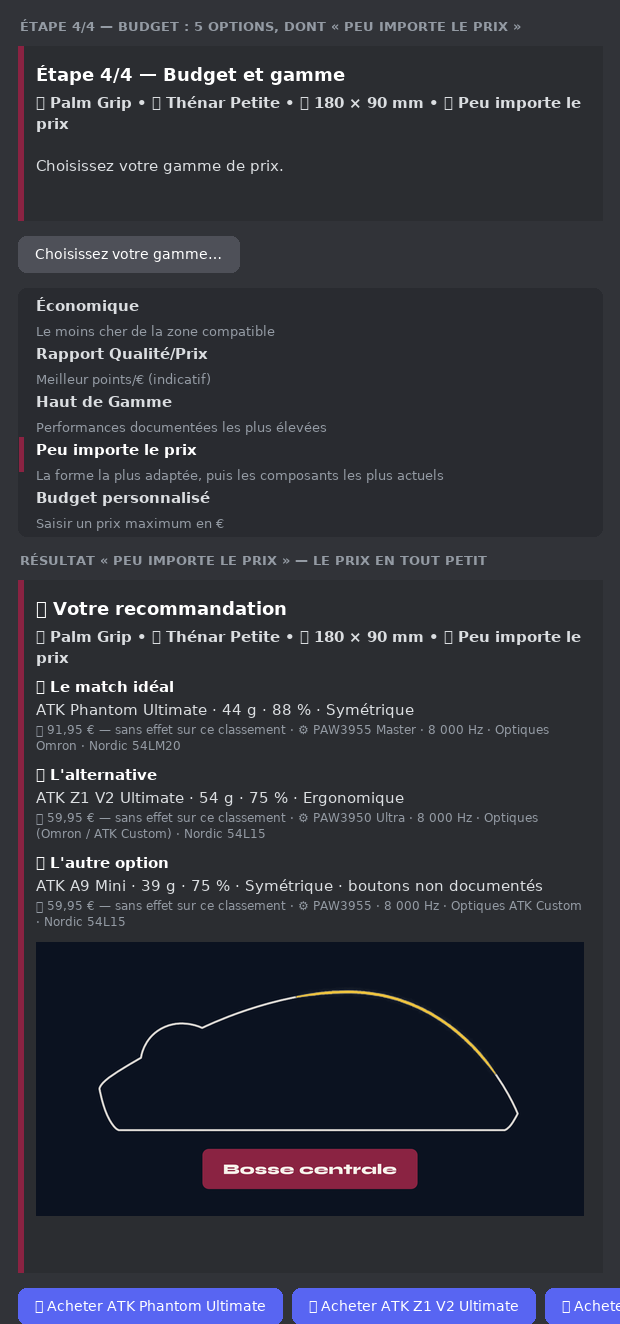
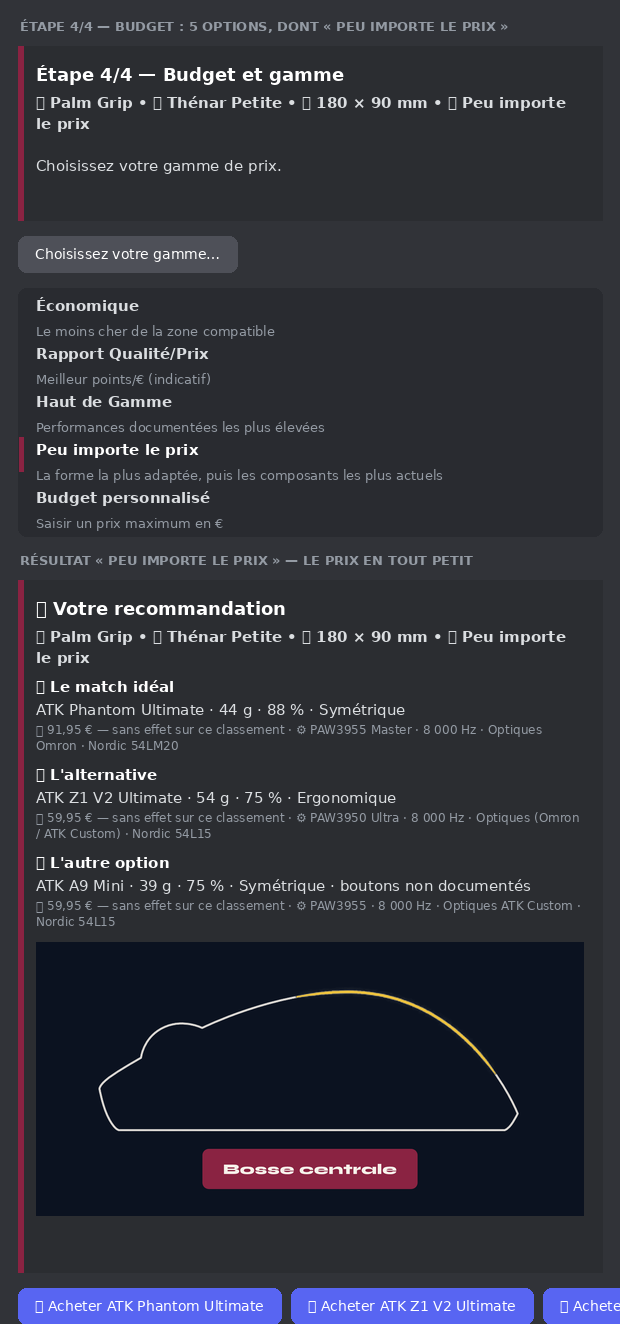
79e passe (C100) : relevé de terrain du 2026-10-15 — prix, sources et prises corrigés
Premier passage complet de tools/check_links.py (depuis le poste du propriétaire)
et lecture de 5 sources tirées au hasard (seed 20261015) :
- X1 V2 Ultra Max, F1 V2, VXE MAD R : 40,95 -> 41,95 € (relevé daté du 2026-10-15)
- U2 V2 Mini : source de prix retirée (elle désignait le produit « U2 Mini »), 268 sources
- U2 V2 Ultimate, U2 V2 Mini, Fierce X : la fiche ATK n'atteste plus que la prise Claw ;
  nouveau verrou dans test_third_party_grip_guide_fills_only_what_the_brand_silences
- Scyrox V8S : libellé « 40 ±3 g » remplacé par ce que la page affiche (« 40 g »)
- Brief de reprise : 4 affirmations fausses corrigées (finder_flow 1 581 l., repli
  « même coque », titres de la 3e place, maximum Fingertip = 40)

Effet : 0 profil sur 21 736 dont le résultat change ; banc 0 problème ; 826 tests.
Fichiers à envoyer : data/mouse_db.json (redémarrage nécessaire).

Claude-Session: https://claude.ai/code/session_01W89iQct2gJnfSdnVdsAKme

diff --git a/tests/test_data.py b/tests/test_data.py
@@ -611,6 +611,14 @@ def test_third_party_grip_guide_fills_only_what_the_brand_silences(mice):
         for champ in ("palm_grip_fit", "claw_grip_fit", "fingertip_grip_fit"):
             if getattr(mouse, champ) != "Inconnu":
                 assert any(champ in s.fields for s in mouse.sources), (mouse.id, champ)
+            # 2026-10-15 (79e passe) : la fiche ATK des U2 V2 Ultimate, U2 V2 Mini et Fierce X déclarait
+            # les trois prises alors qu'elle n'en publie qu'une (« Grip Style: Claw ») — le palm ou le
+            # fingertip venaient de mouseshape seul. Une prise complétée par la source tierce n'est
+            # attestée QUE par elle : le fabricant ne peut pas être cité pour ce qu'il ne publie pas.
+            if any(champ in s.fields for s in tierce):
+                constructeur = [s.url for s in mouse.sources
+                                if champ in s.fields and "mouseshape.com" not in s.url]
+                assert not constructeur, (mouse.id, champ, constructeur)
 
     # Cas concrets : « Recommended » accepté, « Not ideal » laissé « Inconnu ».
     xlite = mice["pulsar_xlite_v4_medium"]

diff --git a/docs/PROMPT_REPRISE_TOTALE.md b/docs/PROMPT_REPRISE_TOTALE.md
@@ -77,7 +77,7 @@ Puis **un seul message** : le résultat. Trois lignes au maximum —
 | --- | --- | --- |
 | 🎯 **Match Idéal** | nom, % du maximum théorique, prix, poids, forme, phrase « en clair » | le meilleur score de la fenêtre de budget |
 | 💡 **Alternative** | idem | un peu moins bien, souvent moins chère |
-| ➕ **🔎 Autre piste** | la 3ᵉ place, remplie **même vide de sens** | peut être un peu plus chère (décision du propriétaire) |
+| 💸 / ➕ / 🔎 **3ᵉ place** | la 3ᵉ place, remplie **même vide de sens** ; titre selon son rôle réel : « 💸 L'économie » (strictement moins chère), « ➕ L'autre option » (dans la fenêtre, pas moins chère), « 🔎 Autre piste » (dernier palier) | peut être un peu plus chère (décision du propriétaire) ; la 2ᵉ place peut aussi devenir « 🔎 Autre piste » (`cogs/finder_flow.py`, `third_slot_title` / `alternative_slot_title`) |
 
 Plus, en dessous : un bloc **« 📐 Vos repères de taille »** (les plages cibles calculées pour **cette** main), et tout en bas, en petit, **« 🧭 Pourquoi ce choix ? »** (le calcul expliqué). **Aucun score de confiance en tête, aucun tableau des souris écartées, aucune matrice** : ce que l'utilisateur voit tient sur un écran.
 
@@ -94,7 +94,7 @@ bot.py                    108 l.   point d'entrée : intents, chargement des cog
 config.py                 101 l.   chemins (.env, catalogue, images), chargement de la configuration
 cogs/
   mouse_finder.py                  cog principal (démarrage du parcours, vues persistantes)
-  finder_flow.py          1 719 l. TOUT le parcours : embeds, boutons, modales, affichage du résultat
+  finder_flow.py          1 581 l. TOUT le parcours : embeds, boutons, modales, affichage du résultat
   __init__.py
 utils/
   matcher.py                       le MOTEUR : barème 40 points, exclusions, statuts
@@ -105,7 +105,7 @@ utils/
   validation.py                    bornes des saisies (100–260 mm, 50–130 mm, 10–5 000 €)
   assets.py                        résolution des images (nom de fichier → URL publique)
 data/
-  mouse_db.json            36 souris · 269 sources   LE CATALOGUE
+  mouse_db.json            36 souris · 268 sources   LE CATALOGUE
   commercial_links.json    36 liens affiliés (+ 3 clés `_` de commentaire)
 assets/
   images.json              17 clés → fichiers `assets/illustrations/T01…T15`
@@ -214,7 +214,7 @@ Les constantes du moteur (`LENGTH_SLOPE = 0.2633`, largeur de prise `= coque −
 `RAPPORT_FINAL.md`, `STATISTIQUES_RECOMMANDATIONS_2026-10-12.md`, `matrice_profils.md` sont des **photos datées**. Elles sont déjà partiellement fausses. Soit on les régénère à la demande (un outil le fait pour la matrice), soit on les archive avec une date en tête. Ne les traite jamais comme la vérité courante.
 
 ### 7.7 Ce qui est propre et qu'il ne faut pas casser
-La **chaîne de preuves** (bytecode, aperçus horodatés par empreinte, banc d'essai, mutations), la **discipline anti-invention**, le **catalogue sourcé** (269 sources pour 36 souris, chaque valeur traçable), et l'**outillage de mesure sur images** (étalonnage, contrôle de perspective, identité de silhouette). Si tu jettes le reste, garde ces quatre-là.
+La **chaîne de preuves** (bytecode, aperçus horodatés par empreinte, banc d'essai, mutations), la **discipline anti-invention**, le **catalogue sourcé** (268 sources pour 36 souris depuis la 79e passe, chaque valeur traçable), et l'**outillage de mesure sur images** (étalonnage, contrôle de perspective, identité de silhouette). Si tu jettes le reste, garde ces quatre-là.
 
 ---
 
@@ -238,7 +238,7 @@ La **chaîne de preuves** (bytecode, aperçus horodatés par empreinte, banc d'e
 ## 9. Tes droits, explicitement
 
 ### 9.1 Sur le code
-Tu peux modifier, déplacer, découper, fusionner ou **supprimer** n'importe quel module — y compris `cogs/finder_flow.py` (1 719 lignes, « tout le parcours dans un fichier » : c'est un candidat évident à l'éclatement). Tu peux changer les dépendances (`discord.py ≥ 2.4`, Python ≥ 3.10), la structure des cogs, le découpage `utils/`, et **le moteur de calcul lui-même**.
+Tu peux modifier, déplacer, découper, fusionner ou **supprimer** n'importe quel module — y compris `cogs/finder_flow.py` (1 581 lignes, « tout le parcours dans un fichier » : c'est un candidat évident à l'éclatement). Tu peux changer les dépendances (`discord.py ≥ 2.4`, Python ≥ 3.10), la structure des cogs, le découpage `utils/`, et **le moteur de calcul lui-même**.
 
 ### 9.2 Sur les données
 Tu peux changer le schéma du catalogue, à condition de fournir la **migration** et de mettre à jour les outils, les tests et les documents qui en dépendent. Le schéma actuel fait **26 champs obligatoires ou optionnels** (Annexe A) ; il est verbeux et mérite d'être repensé — mais il a une qualité : **chaque valeur renseignée est adossée à une source qui déclare le champ**. Garde cette propriété.
@@ -309,7 +309,7 @@ Le propriétaire est francophone, exige un **français irréprochable** (typogra
 ### 11.3 Ajouter une souris au catalogue (le geste que tu dois rendre trivial)
 1. **Vérifier qu'elle est vendue** et trouver le lien officiel, affilié (`?ref=aze` ATK, `?ref=AZE` Pulsar, `?bg_ref=…` Scyrox).
 2. **Relever les cotes** (longueur, largeur maximale, hauteur) sur deux sources ou sur le fabricant ; si elles divergent de plus de 0,5 mm → `conflicts` + statut d'incertitude.
-3. **Renseigner `shell_id`** si la coque est partagée : deux entrées de la même coque ne doivent **jamais** occuper deux places du même résultat.
+3. **Renseigner `shell_id`** si la coque est partagée : deux entrées de la même coque n'occupent pas deux places du même résultat — **sauf** repli volontaire quand aucun autre candidat ne reste (« jamais moins de résultats qu'avant ») : le banc le compte (1 748 profils sur 21 736 au 2026-10-15) sans le compter comme une faute.
 4. **Prises** : seulement ce que le fabricant (ou la source tierce autorisée) **publie**. « Inconnu » est une valeur acceptable ; une valeur inventée jamais. Une prise « Faible » **exclut** la souris de ce profil.
 5. **Bosse** (position) et **hauteur de boutons** (classe) : mesurées sur images, ou déduites d'une coque partagée **avec sa source**.
 6. **Prix en euros**, relevé daté, variante **figée** dans le lien si le produit en vend plusieurs.
@@ -412,7 +412,7 @@ Et une consigne de méthode : **quand tu as le choix entre « faire ce que le do
 | **Compatibilité de prise** | 10 | `Élevé` +10, `Moyen` +5, `Faible` ⇒ **exclusion**, `Inconnu` ⇒ à vérifier (aucun point) |
 | **Bosse** | 5 | position idéale selon la prise |
 | **Hauteur des boutons** | 5 (palm/claw) · 10 (fingertip) | classe idéale selon la prise |
-| **Maximum théorique** | **40** | le pourcentage affiché est **score / 40** (⚠ au Fingertip, le maximum réel change : à vérifier — c'est le genre d'incohérence que tu dois traquer) |
+| **Maximum théorique** | **40** | le pourcentage affiché est **score / 40** — vérifié le 2026-10-15 : au Fingertip aussi, 10 + 10 + 10 + 0 (bosse ignorée) + **10** (boutons) = 40 |
 
 Plages cibles (mesurées par reverse engineering, `Reverse/`) :
 - Longueur min = `71,4 + 0,2633 × L` ; longueur max = min + 5 mm (Palm/Claw) ; Fingertip : max = base + 0,2633 × L.
@@ -466,7 +466,7 @@ find . -name __pycache__ -type d -not -path "./.venv/*" -exec rm -rf {} +
 - **Thénar** : informatif, **aucun point**, ne modifie pas le score (règle du 2026-10-13).
 - **Résultat** : la ligne descriptive + **Match Idéal** + **Alternative**, avec le **% du maximum théorique** (jamais présenté comme une probabilité ni une confiance). **Pas de score ni de confiance en tête**.
 - **« Le pourquoi »** : en petit encadré, **en bas**.
-- **3ᵉ place** : remplie **même incomplète**, titre « 🔎 Autre piste », % affiché ; une souris un peu plus chère est acceptée ; le **marqueur discret** signale un score partiel.
+- **3ᵉ place** : remplie **même incomplète**, titre selon son rôle (« 💸 L'économie », « ➕ L'autre option » ou « 🔎 Autre piste »), % affiché ; une souris un peu plus chère est acceptée ; le **marqueur discret** signale un score partiel.
 - **Ne pas afficher** : les souris écartées, la matrice, les données de debug.
 - **Images** : les 15 illustrations `T01`–`T15` (bannière, étapes, illustrations du résultat), hébergées par le propriétaire, lisibles en thème **sombre et clair**.
 - **Poids** affiché près des deux premières places.
@@ -489,7 +489,7 @@ find . -name __pycache__ -type d -not -path "./.venv/*" -exec rm -rf {} +
 | **T01–T15** | les 15 illustrations du bot (`ImageUse/`), mappées dans `assets/images.json` |
 | **banc / grille** | `tools/qa_flow_matrix.py` : passe tous les profils dans le moteur et vérifie les invariants |
 | **mutation** | casser volontairement le code pour vérifier qu'un test échoue bien |
-| **`shell_id`** | identifiant de **coque** : deux souris de même coque ne doivent jamais occuper deux places |
+| **`shell_id`** | identifiant de **coque** : deux souris de même coque n'occupent pas deux places, sauf repli quand aucun autre candidat ne reste |
 | **marqueur partiel** | « boutons non documentés » : signale un score incomplet sur une souris |
 | **empreinte des sources** | SHA-256 inscrit dans les PNG d'aperçu pour détecter un aperçu périmé |
 

diff --git a/docs/VERIFICATION_LIENS_SPONSORISES_2026-10-11.md b/docs/VERIFICATION_LIENS_SPONSORISES_2026-10-11.md
@@ -316,6 +316,22 @@ la page ouverte, avec sa date) reste la bonne, mais elle exige de **relire** —
 l'environnement de travail (les boutiques y sont bloquées), il se fait à la main, fiche par fiche, et le
 résultat est **écrit ici avec sa date**. Aucune valeur n'est devinée, aucune conversion n'est faite.
 
+### 7.8 Relecture du 2026-10-15 (79e passe) : trois prix rebasculés, cette fois par l'outil
+
+`tools/check_links.py` a enfin tourné **en entier**, depuis le poste du propriétaire (Windows 11,
+Python 3.12.9, commit `070024f`, le 2026-10-15 entre 18:05 et 18:06, heure de Paris) : **36 fiches
+ouvertes, aucune inaccessible, 3 écarts**, tous d'un euro et tous **à la hausse** — l'inverse du §7.7.
+
+| Souris | 2026-10-14 | **2026-10-15 (publié)** |
+| --- | --- | --- |
+| ATK X1 V2 « Ultra Max 2.0 / Black » (bouton) | 40,95 € | **41,95 €** (prix barré 63,95 €) |
+| ATK F1 V2 « Ultra Max 2.0 / Black » (bouton) | 40,95 € | **41,95 €** (prix barré 63,95 €) |
+| VXE MAD R (« à partir de » : « MAD R / Black » et « MAD R / White », 1K Dongle Only) | 40,95 € | **41,95 €** |
+
+Les **31 autres fiches en euros** sont conformes au catalogue ; les deux Scyrox restent « hors
+comparaison » (69,99 USD, aucune conversion). La Duckbill, qui oscillait avec ces trois-là, est restée à
+81,95 €.
+
 ## 8. Inventaire du 2026-10-13 (après-midi) : les 36 liens relus, un par un
 
 La 37e passe avait relu les 36 liens **le matin** du 2026-10-13. Le propriétaire a demandé une
@@ -344,14 +360,14 @@ publié). Modifier un lien ou un prix sans mettre à jour ce tableau fait **éch
 | `atk_a9_mini` | `atk-dragonfly-a9-ultimate-lightweight-wireless-mouse` | `47852235718874` | Mini / Black | 59,95 € | 59,95 € | ✅ |
 | `atk_a9_plus` | `atk-dragonfly-a9-series-lightweight-wireless-mouse` | `46320046047450` | A9 Plus / White | 27,95 € | 27,95 € | 🔧 prix corrigé (45,00 € → 27,95 €) |
 | `atk_a9_nb` | `atk-dragonfly-a9-nb-lightweight-wireless-mouse` | — | Ultra (4 coloris) | 72,95 € | 72,95 € | 🔧 prix corrigé (73,95 € → 72,95 €) |
-| `atk_x1_ultra_max` | `atk-blazing-sky-x1-v2-series-esports-wireless-mouse` | `47058382782682` | Ultra Max 2.0 / Black | 40,95 € | 40,95 € | ✅ (relecture du 2026-10-14 : la boutique a rebasculé d'un euro, §7.7) |
+| `atk_x1_ultra_max` | `atk-blazing-sky-x1-v2-series-esports-wireless-mouse` | `47058382782682` | Ultra Max 2.0 / Black | 41,95 € | 41,95 € | ✅ (relecture du 2026-10-15 : la boutique a rebasculé d'un euro, §7.7) |
 | `atk_z1_ultra` | `atk-blazing-sky-z1-v2-gaming-wireless-mouse` | — | Ultimate (le moins cher ; l'édition Ultimate+ est à 65,95 €) | 59,95 € | 59,95 € | ✅ |
 | `atk_phantom_ultimate` | `atk-blazing-sky-phantom-hollow-carbon-fiber-composite-wireless-gaming-mouse` | — | Ultimate (modèle unique de la page, 4 coloris) | 91,95 € | 91,95 € | ✅ |
 | `atk_ghost_ultimate` | `atk-blazing-sky-ghost-hollow-carbon-fiber-wireless-gaming-mouse` | `47320425595098` | Ultimate / Silver | 68,95 € | 68,95 € | ✅ |
 | `atk_ghost_extreme` | `atk-blazing-sky-ghost-hollow-carbon-fiber-wireless-gaming-mouse` | `47320425627866` | Extreme / Black | 86,95 € | 86,95 € | ✅ |
 | `atk_y9_ultimate` | `atk-dragonfly-y9-series-lightweight-ergonomic-wireless-mouse` | `47178929897690` | Ultimate / Pink | 59,95 € | 59,95 € | ✅ |
 | `atk_f1_ultimate` | `atk-blazing-sky-f1-v3-series-esports-wireless-mouse` | `48175399370970` | Ultimate+ / Black | 59,95 € | 59,95 € | ✅ |
-| `atk_f1_v2` | `atk-blazing-sky-f1-v2-series-esports-wireless-mouse` | `47006581096666` | Ultra Max 2.0 / Black | 40,95 € | 40,95 € | 🔧 variante figée (le lien ouvrait la page des trois éditions) · relecture du 2026-10-14 |
+| `atk_f1_v2` | `atk-blazing-sky-f1-v2-series-esports-wireless-mouse` | `47006581096666` | Ultra Max 2.0 / Black | 41,95 € | 41,95 € | 🔧 variante figée (le lien ouvrait la page des trois éditions) · relecture du 2026-10-15 |
 | `atk_u2_v2_ultimate` | `atk-blazing-sky-u2-v2-superlight-wireless-gaming-mouse` | `47201864974554` | U2 V2 Ultimate / Lake Green | 59,95 € | 59,95 € | ✅ |
 | `atk_u2_v2_mini` | `atk-blazing-sky-u2-v2-superlight-wireless-gaming-mouse` | `47204034150618` | U2 V2 Mini / White | 59,95 € | 59,95 € | ✅ |
 | `atk_u2` | `atk-blazing-sky-u2-series-wireless-mouse` | — | U2 (le moins cher de la série) | 22,95 € | 22,95 € | ✅ |
@@ -361,7 +377,7 @@ publié). Modifier un lien ou un prix sans mettre à jour ce tableau fait **éch
 | `atk_fierce_x` | `atk-fierce-x-lightweight-wireless-gaming-mouse` | — | FIERCE X (3 coloris) | 69,95 € | 69,95 € | ✅ (produit épuisé) |
 | `vxe_v3` | `vxe-dragonfly-v3-series-lightweight-wireless-mouse` | — | Dragonfly V3 (le moins cher) | 13,95 € | 13,95 € | ✅ |
 | `vxe_r1` | `vxe-dragonfly-r1-series-wireless-mouse` | — | Dragonfly R1 (le moins cher) | 13,95 € | 13,95 € | ✅ |
-| `vxe_mad_r` | `vxe-mad-r-series-wireless-mouse` | — | MAD R (le moins cher) | 40,95 € | 40,95 € | ✅ (produit épuisé ; relecture du 2026-10-14) |
+| `vxe_mad_r` | `vxe-mad-r-series-wireless-mouse` | — | MAD R (le moins cher) | 41,95 € | 41,95 € | ✅ (relecture du 2026-10-15) |
 | `vxe_x3` | `vxe-dragonfly-x3-series-lightweight-wireless-mouse` | — | Dragonfly X3 (le moins cher) | 27,95 € | 27,95 € | ✅ |
 | `pulsar_x2_v3_mini` | `x2-v3-mini-gaming-mouse` | — | X2 v3 Mini (taille `Size/Mini`) | 119,99 € | 119,99 € | ✅ |
 | `pulsar_x2h_v3_mini` | `x2h-v3-mini-gaming-mouse` | — | X2H v3 Mini (taille `Size/Mini`) | 119,99 € | 119,99 € | ✅ |

diff --git a/docs/audit/AUDIT.md b/docs/audit/AUDIT.md
@@ -133,6 +133,7 @@ document de validation, ou défaut d'outillage — c'est le cas de C37, C38, des
 | C97 | Documentation — le texte de justification du catalogue décrit comme « affiché dans le résultat » | Même famille que C96, trouvée le même jour en étendant le balayage à tout le tableau des champs : `fit_rationale` est renseigné pour les 36 souris mais n'apparaît dans **aucun** message — le bloc « 🧭 Pourquoi ce choix ? » vient de `selection.explanation`, calculé par le moteur. Corrigé dans le README, et le contrôle de C96 est devenu **paramétré** : il vérifie, pour `budget_tier` et `fit_rationale`, qu'aucun module du bot ne les lit et que le README porte la phrase vraie sans la phrase périmée — mutation rejouée (affichage du champ ajouté au moteur), 1 rouge. Le même balayage a confirmé `sources`, le départage capteur/MCU/switchs, l'affichage de `shape` et l'état de `grip_width_mm`. Détail : §26.62 du ROBUSTESSE. |
 | C98 | Données — neuf notes du catalogue portaient une phrase collée à la suivante | Neuf souris Pulsar avaient « … jusqu'au relevé.Capteur maison Pulsar XS-1 … » : la phrase sur le capteur avait été concaténée au texte existant sans séparateur. Le sens restait juste, mais le texte publié (la traçabilité que le propriétaire lit) portait une faute visible, et rien ne le surveillait. Corrigé : les neuf occurrences portent l'espace manquante (**ponctuation seule**, aucun mot ni chiffre touché), et un contrôle neuf (`tests/test_data.py`) balaie tous les textes libres du catalogue — notes, notes de prix, justifications, 269 libellés de sources — en refusant une phrase collée à la suivante. Mutation rejouée : 1 rouge. Détail : §26.63 du ROBUSTESSE. |
 | C99 | Catalogue — le point ouvert de la Xlite CrazyLight Mini est tranché, et son dossier est prêt | Le catalogue Pulsar gardait hors du bot une souris **vendue** parce que la boutique la classe `Shape/Symmetrical` quand la famille Xlite est ergonomique main droite. Mesure du 2026-10-14 sur trois pages officielles : la CrazyLight **Mini** est taggée `Symmetrical` mais sa page écrit « **ERGONOMIC RIGHT HAND** » et « Ergonomic right-handed shape », tandis que la CrazyLight **Medium** (texte produit identique) et la **Xlite v4 Mini** sont taggées `Ergonomic` → l'étiquette isolée est celle de la boutique, la forme est tranchée. La page publie aussi tout le dossier d'entrée : 115,6 × 63,4 × **40,7 mm** (« Same Size as the Xlite Size 1 »), ±41/±43 g, XS-1, optiques 100 M, LTC TTC Golden, et « **1000Hz/1ms** » + « Up to 8K » pour le polling (d'où 1 000 Hz, règle de la famille). Seul le **MCU** reste ouvert (« 32bit ARM Processor », pas un nom). L'entrée au catalogue est une passe à part (tous les compteurs publiés bougent). §6 du `PULSAR_CATALOGUE_2026-10-12.md` mis à jour ; détail : §26.64 du ROBUSTESSE. |
+| C100 | Données — relevé de terrain du 2026-10-15 : trois prix rebasculés, une source qui désignait un autre produit, trois fiches constructeur citées pour des prises qu'elles ne publient pas | Premier passage **complet** de `tools/check_links.py` (36 fiches ouvertes depuis le poste du propriétaire, l'environnement de travail étant bloqué) et lecture de 5 sources tirées au hasard (`random.seed(20261015)`, tirage rejoué à l'identique). Trouvé : (1) X1 V2 Ultra Max, F1 V2 et VXE MAD R à **41,95 €** (catalogue 40,95 €, oscillation d'un euro déjà décrite) → prix, notes et sources datés du 2026-10-15 ; (2) la U2 V2 Mini citait pour son prix une source du 2026-10-11 qui désigne le produit « U2 Mini » (77,95 €), pas la V2 → source retirée (**268** sources), le prix reste attesté par les relevés de la variante figée ; (3) la fiche ATK des U2 V2 Ultimate, U2 V2 Mini et Fierce X déclarait les trois prises alors qu'elle n'affiche que « Grip Style: Claw » — le palm ou le fingertip venaient de mouseshape seul → la fiche n'atteste plus que `claw_grip_fit`, et `test_third_party_grip_guide_fills_only_what_the_brand_silences` refuse désormais qu'une prise complétée par la source tierce soit aussi attribuée au fabricant (mutation : ancien catalogue → 1 rouge) ; (4) le libellé Maxesport de la Scyrox V8S annonçait « 40 ±3 g », la page affiche « 40 g » → libellé recopié mot pour mot. Effet mesuré (`tools/db_effect.py`) : **0 profil** sur 21 736 dont le résultat change ; banc inchangé (0 problème). Détail : §7.8 de `docs/VERIFICATION_LIENS_SPONSORISES_2026-10-11.md`. |
 
 ## 3. Audit du muscle thénar
 

diff --git a/docs/audit/CATALOGUE_ATK.md b/docs/audit/CATALOGUE_ATK.md
@@ -4,6 +4,8 @@ Date de vérification : **2026-10-10**, corrigé le **2026-10-12** puis le **202
 
 **Relecture du 2026-10-14 (60e passe)** : la boutique a rebasculé sa promotion et quatre références sont repassées d'un euro **sous** leur prix de la veille — X1 V2 Ultra Max « Ultra Max 2.0 / Black » **40,95 €**, F1 V2 « Ultra Max 2.0 / Black » **40,95 €**, VXE MAD R **40,95 €** (« à partir de », produit épuisé) et Duckbill **81,95 €**. Les deux lignes de prix de ce tableau sont alignées sur ces relevés datés, et le détail fiche par fiche — dont l'édition « Ultra Max 2.0 » que la page A9 vend aussi — est au §7.7 de `docs/VERIFICATION_LIENS_SPONSORISES_2026-10-11.md`.
 
+**Relecture du 2026-10-15 (79e passe)** : `tools/check_links.py`, lancé depuis le poste du propriétaire, voit trois références remontées d'un euro — X1 V2 Ultra Max et F1 V2 « Ultra Max 2.0 / Black » **41,95 €**, VXE MAD R **41,95 €** ; la Duckbill reste à 81,95 €. Détail au §7.8 du même document.
+
 > **Ce catalogue n'est pas exhaustif.** La collection ATK (store) listait 23 produits, mais la correspondance produit ↔ statut
 > de disponibilité n'a pas été extraite, et seule la première page de la collection a été lue. Plusieurs variantes
 > (Z1 originale, X1 original, F1 Pro Max, A9 SE / Pro / Ultra, Ghost Extreme sur sa propre page, Blazing Sky Phantom sur le store)
